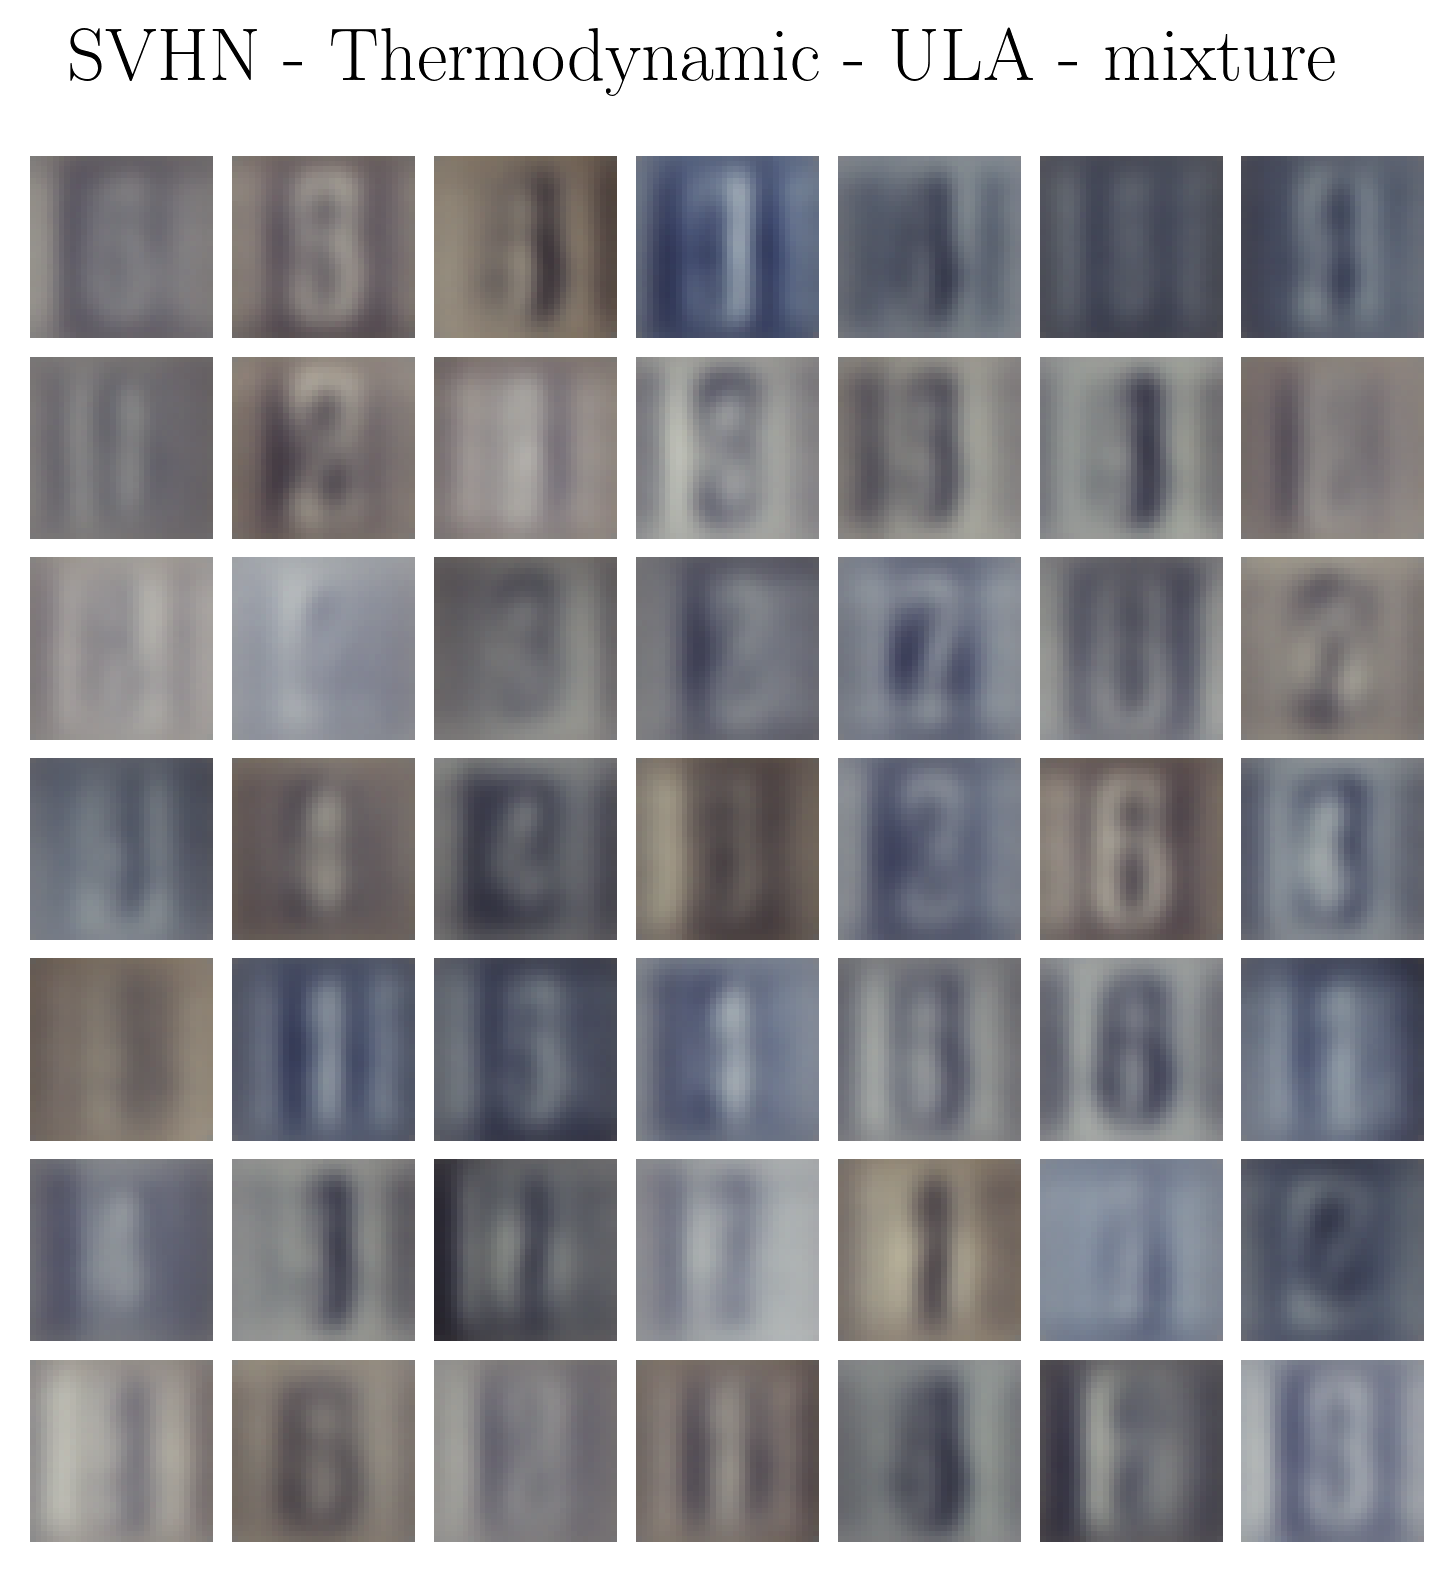
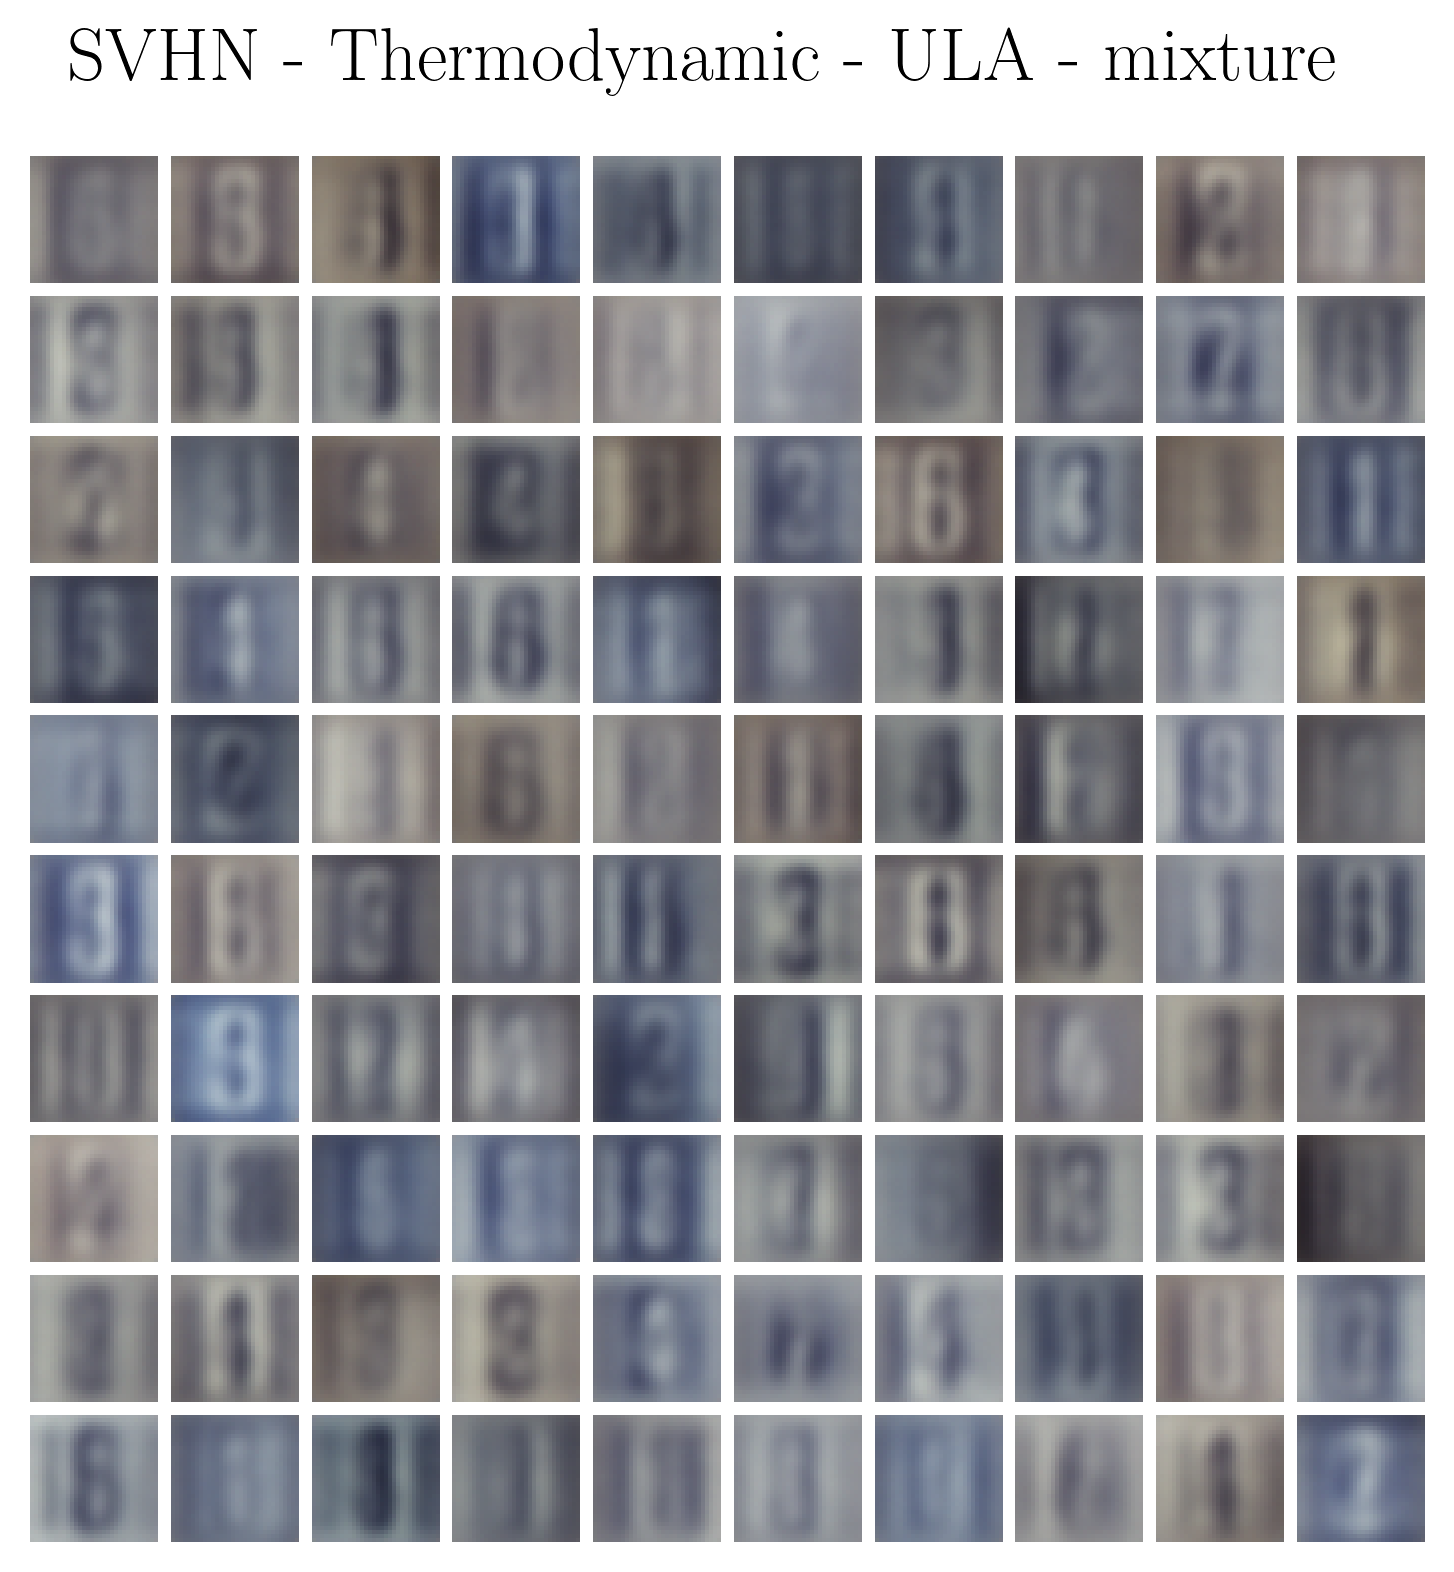
readme update

diff --git a/plotting/results/plot_ula.py b/plotting/results/plot_ula.py
@@ -23,8 +23,8 @@ plt.rcParams.update(
 )
 
 DATASETS = {
-    "SVHN": {"grid_size": 7, "cmap": None},
-    "CELEBA": {"grid_size": 7, "cmap": None},
+    "SVHN": {"grid_size": 10, "cmap": None},
+    "CELEBA": {"grid_size": 10, "cmap": None},
 }
 
 METHOD_CONFIGS = {

diff --git a/README.md b/README.md
@@ -28,7 +28,7 @@ And when ULA and maximum likelihood fail, it can also be trained with a variance
   <img src="figures/results/individual_plots/celeba_thermodynamic_ula_mixture.png" width="25%" />
 </p>
 
-*This images are after training on a budget with 5,000 parameter updates.
+*This images are after training on a budget with 4,000 parameter updates.
 
 Unlike diffusion and score-based models, annealing is more interpretable, fully parallelizable, and only applied to posterior expectations, (thus preserving inference speed). The main trade-off is expressivity, though this may improve with scaling. And unlike denoising, which scales sequentially, annealing can scale by adding more temperatures in parallel.
 
